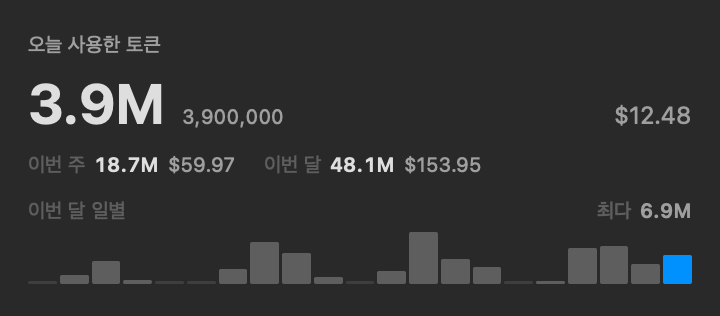
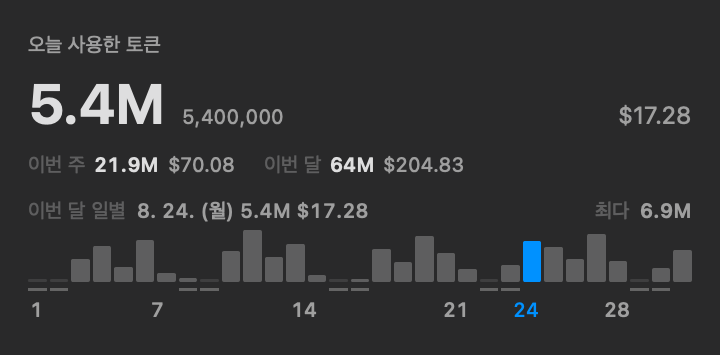
fix: use locale templates for the trend caption's date and weekday
Building the stamp as "\(month)/\(day)" forced US ordering on every language -- French,
Spanish and Portuguese write 24/08. A localized MdE template gives each language its own
order and weekday name in one formatter: ko "8. 24. (월)", en "Mon, 8/24", fr "lun. 24/08".

It also removes two unreachable branches that --show-regions had flagged as never executed
(a nil weekday-symbol array and a bounds check on it), along with a redundant "day > 0"
condition in the axis label, since a series date is always yyyy-MM-dd.

Adds a caption overflow guard: the row now carries date, weekday, tokens and cost, so it is
measured in all six languages at worst-case magnitudes (888,888,888 tokens / $8,888.88) and
must stay one line. Wrapping would make the popover a different height per language, the
same class of failure as the provider tabs breaking words mid-word.

diff --git a/Tests/PokeTokenBarTests/MonthDailyTrendTests.swift b/Tests/PokeTokenBarTests/MonthDailyTrendTests.swift
@@ -401,16 +401,24 @@ final class MonthDailyTrendTests: XCTestCase {
     /// 로케일(이 기기는 ko_KR)을 따라, 앱을 영어/일본어로 쓰는 사용자에게 한 화면 두 언어가 된다
     /// — defect-log §표시·UI 의 `Text(_, style: .relative)` 와 같은 부류.
     func testDayStampWeekdayFollowsTheAppLanguageNotTheSystemLocale() {
-        var gregorian = Calendar(identifier: .gregorian)
-        gregorian.locale = Locale(identifier: "en_US_POSIX")
         func stamp(_ language: AppLanguage) -> String {
-            DailyTrendMetrics.dayStamp("2026-08-24", language: language, calendar: gregorian)
+            DailyTrendMetrics.dayStamp("2026-08-24", language: language)   // 월요일
         }
-        XCTAssertEqual(stamp(.ko), "8/24 (월)")
-        XCTAssertEqual(stamp(.en), "8/24 (Mon)")
-        XCTAssertEqual(stamp(.ja), "8/24 (月)")
-        // 세 언어가 서로 달라야 한다 — 전부 같으면 로케일이 무시되고 있다는 뜻이다.
-        XCTAssertEqual(Set([stamp(.ko), stamp(.en), stamp(.ja)]).count, 3)
+        // 요일 이름이 그 언어로 나온다.
+        XCTAssertTrue(stamp(.ko).contains("월"), stamp(.ko))
+        XCTAssertTrue(stamp(.en).contains("Mon"), stamp(.en))
+        XCTAssertTrue(stamp(.ja).contains("月"), stamp(.ja))
+        XCTAssertTrue(stamp(.es).lowercased().contains("lun"), stamp(.es))
+
+        // 월·일 **순서**도 로케일을 따른다 — 직접 "\(month)/\(day)" 로 조립하면 프랑스어에서도
+        // 미국식 8/24 가 강제되는데, 그 언어는 24/08 이 맞다.
+        XCTAssertTrue(stamp(.en).contains("8/24"), stamp(.en))
+        XCTAssertTrue(stamp(.fr).contains("24/08"), stamp(.fr))
+        XCTAssertTrue(stamp(.pt).contains("24/08"), stamp(.pt))
+
+        // 여섯 언어가 서로 달라야 한다 — 전부 같으면 로케일이 무시되고 있다는 뜻이다.
+        let all = [stamp(.ko), stamp(.en), stamp(.ja), stamp(.es), stamp(.fr), stamp(.pt)]
+        XCTAssertEqual(Set(all).count, 6, all.description)
         XCTAssertEqual(DailyTrendMetrics.dayStamp("nope", language: .ko), "")
     }
 
@@ -430,6 +438,38 @@ final class MonthDailyTrendTests: XCTestCase {
         // 캡션(≈13) + 막대(26) + 틱(1.5) + 축(≈13) + 간격 — 막대 트랙만으로는 절대 안 되는 높이.
         XCTAssertGreaterThan(height, DailyTrendMetrics.track + 24,
                              "축·틱 행이 빠지면 이 높이가 안 나온다 (실측 \(height))")
+    }
+
+    /// 캡션 행이 팝오버 폭 안에서 **한 줄로** 유지되는가 — 6개 언어 전부.
+    ///
+    /// 캡션에 날짜·요일·토큰·비용이 다 들어가면서 이 행이 길어졌다. 넘치면 SwiftUI 가 조용히
+    /// 줄바꿈해 행 높이가 커지고(프로바이더 탭이 폭을 넘겨 단어 중간에서 접힌 것과 같은 부류),
+    /// 언어마다 팝오버 높이가 달라진다. 줄바꿈 여부를 **렌더 높이로** 판정한다 — 코드를 읽는 게
+    /// 아니라 실제로 그려보는 것.
+    ///
+    /// 최악 조건으로 재는 이유: 억 단위 토큰 + 네 자리 비용이 실사용에 존재한다(이 기기 8월 최다
+    /// 520M, 월 비용 $600 대).
+    @MainActor
+    func testCaptionStaysOnOneLineInEveryLanguageAtWorstCaseNumbers() {
+        let series = (1...31).map { day in
+            DailyUsage(date: String(format: "2026-08-%02d", day), inputTokens: 0,
+                       outputTokens: 888_888_888, cacheCreationTokens: 0, cacheReadTokens: 0,
+                       totalTokens: 888_888_888, totalCost: 8_888.88)
+        }
+        func height(_ language: AppLanguage) -> CGFloat {
+            let view = MonthDailyTrend(series: series, showsCost: true,
+                                       today: "2026-08-24", l: L(language))
+                .environment(\.locale, language.displayLocale)
+            return NSHostingController(rootView: view)
+                .sizeThatFits(in: CGSize(width: PopoverMetrics.contentWidth, height: 600)).height
+        }
+        let heights = AppLanguage.allCases.map { ($0, height($0)) }
+        let baseline = try! XCTUnwrap(heights.first?.1)
+        for (language, value) in heights {
+            XCTAssertEqual(value, baseline, accuracy: 0.5,
+                           "\(language) 캡션이 줄바꿈된 것으로 보인다 (\(value) vs \(baseline)) — "
+                           + "폭을 넘기면 언어마다 팝오버 높이가 달라진다")
+        }
     }
 
     /// 빈 시리즈(아직 enrichment 가 안 돌아온 첫 폴링 전)에서도 그리지 않고 크래시하지 않는다.

diff --git a/Sources/PokeTokenBar/UI/PopoverView.swift b/Sources/PokeTokenBar/UI/PopoverView.swift
@@ -921,7 +921,9 @@ enum DailyTrendMetrics {
     /// 오늘을 항상 붙이는 이유: 오늘 사용량이 적으면 막대가 바닥 눈금 한 줄이라 강조색만으로는
     /// 위치를 못 찾는다(31일 렌더에서 실제로 안 보였다). 축의 숫자가 그때 유일한 단서다.
     static func axisLabel(for date: String, today: String, labelInterval: Int = 7) -> String? {
-        guard let dayOfMonth = Int(date.suffix(2)), dayOfMonth > 0 else { return nil }
+        // `Int(...)` 옵셔널 해제는 API 강제다 — 시리즈의 날짜는 항상 "yyyy-MM-dd" 라 실패하지
+        // 않는다(테스트할 분기가 아니다).
+        guard let dayOfMonth = Int(date.suffix(2)) else { return nil }
         if date == today { return "\(dayOfMonth)" }
         if dayOfMonth == 1 { return "1" }
         if labelInterval > 0, dayOfMonth % labelInterval == 0 { return "\(dayOfMonth)" }
@@ -935,22 +937,22 @@ enum DailyTrendMetrics {
         return calendar.isDateInWeekend(parsed)
     }
 
-    /// "8/24 (월)" — 숫자 날짜 + 앱 언어의 짧은 요일 심볼.
-    /// 요일 이름을 `Localization.swift` 에 새로 만들지 않는 이유: 6개 언어 × 7요일을 손으로 적으면
-    /// OS 가 이미 가진 것을 다시 적는 셈이다. 대신 **로케일을 `AppLanguage` 에서 가져온다** —
-    /// `DateFormatter` 를 기본값으로 만들면 시스템 로케일을 따라, 앱 언어를 바꾼 사용자에게
-    /// 한 화면 두 언어가 된다(defect-log §표시·UI 의 `.relative` 사례와 같은 부류).
-    static func dayStamp(_ date: String, language: AppLanguage,
-                         calendar: Calendar = .current) -> String {
+    /// 월·일 + 요일을 **그 언어가 쓰는 순서로** — ko "8. 24. (월)", en "Mon, 8/24", fr "lun. 24/08".
+    ///
+    /// 두 가지를 로케일 템플릿(`MdE`)에 맡긴다.
+    /// ① **요일 이름**: 6개 언어 × 7요일을 `Localization.swift` 에 손으로 적으면 OS 가 이미 가진 것을
+    ///    다시 적는 셈이다.
+    /// ② **월·일 순서**: `"\(month)/\(day)"` 로 조립하면 프랑스어·스페인어·포르투갈어에서도 미국식
+    ///    순서(8/24)가 강제된다 — 그 언어들은 24/08 이 맞다.
+    ///
+    /// 로케일은 반드시 `AppLanguage` 에서 온다. `DateFormatter` 를 기본값으로 만들면 시스템 로케일을
+    /// 따라, 앱 언어를 바꾼 사용자에게 한 화면 두 언어가 된다(defect-log §표시·UI 의 `.relative` 부류).
+    static func dayStamp(_ date: String, language: AppLanguage) -> String {
         guard let parsed = LocalUsageReader.localDayFormatter().date(from: date) else { return "" }
         let formatter = DateFormatter()
         formatter.locale = language.displayLocale
-        let symbols = formatter.shortWeekdaySymbols ?? []
-        let index = calendar.component(.weekday, from: parsed) - 1
-        let weekday = symbols.indices.contains(index) ? symbols[index] : ""
-        let month = calendar.component(.month, from: parsed)
-        let dayOfMonth = calendar.component(.day, from: parsed)
-        return weekday.isEmpty ? "\(month)/\(dayOfMonth)" : "\(month)/\(dayOfMonth) (\(weekday))"
+        formatter.setLocalizedDateFormatFromTemplate("MdE")
+        return formatter.string(from: parsed)
     }
 }
 

diff --git a/Tests/PokeTokenBarTests/ScreenshotGenTests.swift b/Tests/PokeTokenBarTests/ScreenshotGenTests.swift
@@ -18,10 +18,15 @@ import SwiftUI
 final class ScreenshotGenTests: XCTestCase {
 
     /// 데모용 한 달치 일별 사용량 — 실제 로그처럼 쉬는 날(0)과 몰아친 날이 섞여야 기능이 읽힌다.
+    /// **한 달 전체(31일)를 채운다**: 막대가 가장 좁아지는 조건이고, 날짜 축 라벨(1·7·14·21·28·오늘)이
+    /// 다 나오는 것도 그때뿐이라, 21일치로 찍으면 실제로 좁을 때의 모습을 못 보여준다.
+    /// 주말(8/1 토 시작)에 낮은 값을 둬서 주말 밑줄 틱이 데이터와 함께 읽히게 했다.
     private static let demoDailyTokens = [
-        0, 1_240_000, 3_100_000, 480_000, 0, 0, 2_050_000,
-        5_600_000, 4_100_000, 900_000, 0, 1_700_000, 6_900_000, 3_300_000,
-        2_200_000, 0, 140_000, 4_800_000, 5_100_000, 2_600_000, 3_900_000,
+        0, 0, 3_100_000, 4_800_000, 2_050_000, 5_600_000, 1_240_000,
+        480_000, 0, 4_100_000, 6_900_000, 3_300_000, 5_100_000, 900_000,
+        0, 140_000, 4_400_000, 2_600_000, 6_100_000, 3_900_000, 1_700_000,
+        0, 2_200_000, 5_400_000, 4_700_000, 3_050_000, 6_400_000, 2_800_000,
+        0, 1_900_000, 4_200_000,
     ]
 
     @MainActor
@@ -41,18 +46,22 @@ final class ScreenshotGenTests: XCTestCase {
     @MainActor
     private func render(language: AppLanguage) throws -> Data {
         let l = L(language)
-        let today = "2026-07-21"
+        let today = "2026-08-24"
         let series = Self.demoDailyTokens.enumerated().map { index, value in
-            DailyUsage(date: String(format: "2026-07-%02d", index + 1),
+            DailyUsage(date: String(format: "2026-08-%02d", index + 1),
                        inputTokens: value / 4, outputTokens: value / 4,
                        cacheCreationTokens: value / 4, cacheReadTokens: value / 4,
                        totalTokens: value, totalCost: Double(value) / 1_000_000 * 3.2)
         }
-        let monthTotal = series.reduce(0) { $0 + $1.totalTokens }
-        let monthCost = series.reduce(0.0) { $0 + $1.totalCost }
-        let weekTotal = series.suffix(7).reduce(0) { $0 + $1.totalTokens }
-        let weekCost = series.suffix(7).reduce(0.0) { $0 + $1.totalCost }
-        let todayUsage = try XCTUnwrap(series.last)
+        // 합계는 "오늘"(=강조된 막대)까지로 잘라야 한다 — series.last 로 잡으면 헤더의 오늘 숫자와
+        // 리드아웃의 날짜가 어긋난 스크린샷이 나온다(8/24 라고 쓰고 8/31 값을 보여주는 식).
+        let todayIndex = try XCTUnwrap(series.firstIndex { $0.date == today })
+        let throughToday = series[...todayIndex]
+        let monthTotal = throughToday.reduce(0) { $0 + $1.totalTokens }
+        let monthCost = throughToday.reduce(0.0) { $0 + $1.totalCost }
+        let weekTotal = throughToday.suffix(7).reduce(0) { $0 + $1.totalTokens }
+        let weekCost = throughToday.suffix(7).reduce(0.0) { $0 + $1.totalCost }
+        let todayUsage = series[todayIndex]
 
         let content = VStack(alignment: .leading, spacing: 6) {
             Text(l.todayTokens).font(.caption).foregroundStyle(.secondary)
